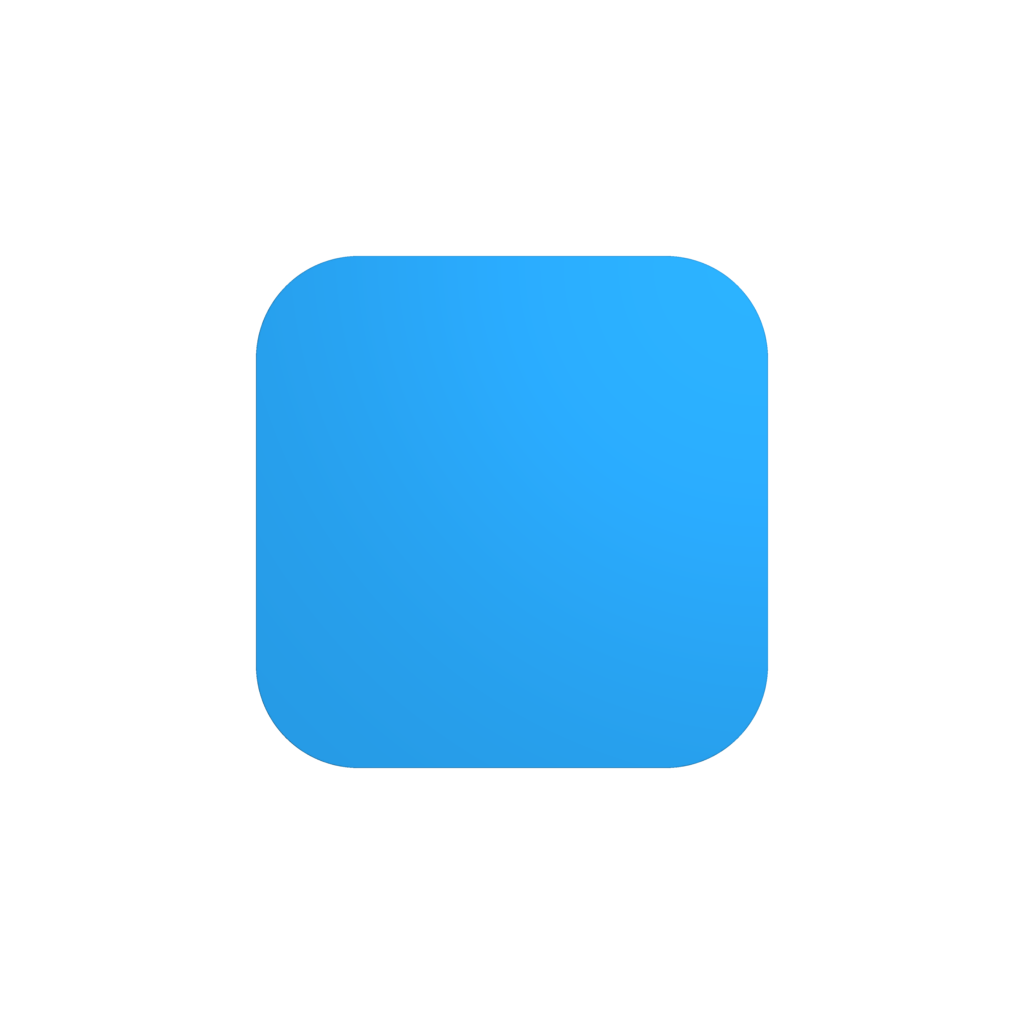
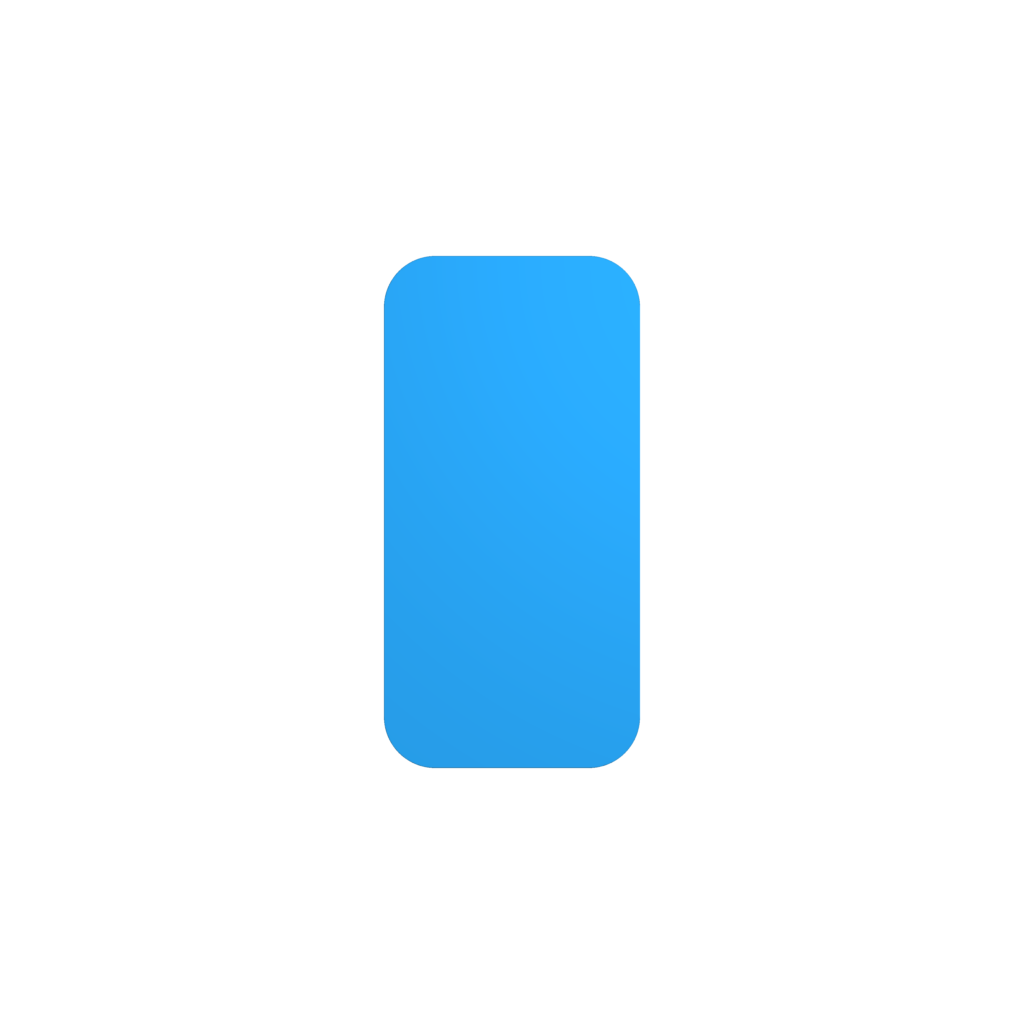
wip, fix rounded rectangle

Changed region(s): [[0.5938, 0.25, 0.75, 0.75], [0.25, 0.25, 0.4062, 0.75]]

diff --git a/sdf/d2.py b/sdf/d2.py
@@ -173,6 +173,7 @@ def rounded_rectangle(size, radius, center=ORIGIN):
         r0, r1, r2, r3 = radius
     except TypeError:
         r0 = r1 = r2 = r3 = radius
+    size = np.array(size)
     def f(p):
         x = p[:,0]
         y = p[:,1]
@@ -181,7 +182,7 @@ def rounded_rectangle(size, radius, center=ORIGIN):
         r[np.logical_and(x > 0, y <= 0)] = r1
         r[np.logical_and(x <= 0, y <= 0)] = r2
         r[np.logical_and(x <= 0, y > 0)] = r3
-        q = np.abs(p) - size / 2 + r
+        q = np.abs(p - center) - size / 2 + r
         return (
             _min(_max(q[:,0], q[:,1]), 0).reshape((-1, 1)) +
             _length(_max(q, 0)).reshape((-1, 1)) - r)
@@ -189,8 +190,8 @@ def rounded_rectangle(size, radius, center=ORIGIN):
 
 @sdf2
 def equilateral_triangle():
+    k = 3 ** 0.5
     def f(p):
-        k = 3 ** 0.5
         p = _vec(
             np.abs(p[:,0]) - 1,
             p[:,1] + 1 / k)

diff --git a/docs/render.py b/docs/render.py
@@ -227,7 +227,7 @@ f = rectangle([1,2]).extrude(0.1)
 generate(f, '2d_rectangle')
 
 # 2d rounded_rectangle
-f = rounded_rectangle(1,0.2).extrude(0.1)
+f = rounded_rectangle([1,2],0.2).extrude(0.1)
 generate(f, '2d_rounded_rectangle')
 
 # 2d equilateral_triangle

diff --git a/README.md b/README.md
@@ -953,7 +953,7 @@ f = rectangle([1,2]).extrude(0.1)
 `rounded_rectangle(size, radius, center=ORIGIN)`
 
 ```python
-f = rounded_rectangle(1,0.2).extrude(0.1)
+f = rounded_rectangle([1,2],0.2).extrude(0.1)
 ```
 
 ### equilateral_triangle
